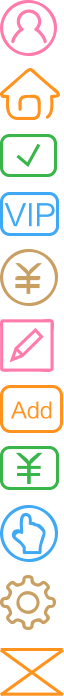
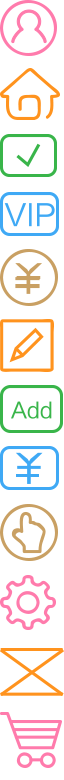
zgf

diff --git a/thinkphp3.2/msy/Application/Purchase/View/PersonalCenter/index.html b/thinkphp3.2/msy/Application/Purchase/View/PersonalCenter/index.html
@@ -52,7 +52,7 @@
                 <li>
                     <a href="{:U('Home/CompanyAuthorise/index')}">
                         <span class="real_name"></span>
-                        机构认证
+                        实名认证
                     </a>
                 </li>
             </ul>
@@ -68,13 +68,19 @@
                 <li>
                     <a href="{:U('Recharge/index')}">
                         <span class="charnge"></span>
-                        账户充值
+                        采购充值
+                    </a>
+                </li>
+                <li>
+                    <a href="{:U('purchaseOrder')}">
+                        <span class="purchase_cart"></span>
+                        <span class="purchase_cart_count">采购车<i>1</i></span>
                     </a>
                 </li>
                 <li>
                     <a href="{:U('purchaseOrder')}">
                         <span class="order_purchase"></span>
-                        采购订单
+                        <span class="purchase_cart_count">采购订单<i>1</i></span>
                     </a>
                 </li>
                 <li>
@@ -96,7 +102,7 @@
                 <li>
                     <a href="javascript:void(0);">
                         <span class="icome"></span>
-                        推广收益
+                        <span class="purchase_cart_count">推客收益<i>1</i></span>
                     </a>
                 </li>
             </ul>

diff --git a/thinkphp3.2/msy/Public/css/home/mall.css b/thinkphp3.2/msy/Public/css/home/mall.css
@@ -1124,7 +1124,7 @@ background-size:contain;
     -webkit-transform:translate(-70%) rotateZ(-133deg);-moz-transform:translate(-70%) rotateZ(-45deg);
     -ms-transform:translate(-70%) rotateZ(-45deg);
 }
-.purchase_order_management li span{
+.purchase_order_management li span:first-child{
     width:0.68rem;
     height:0.58rem;
     display:inline-block;
@@ -1134,10 +1134,10 @@ background-size:contain;
     background-size:37px 212px;
     
 }
-.usercenter_management li span{ 
+.usercenter_management li span:first-child{ 
     height:28px;
     background-image:url(../../img/common/ucenter_icon.png);
-    background-size:32px 350px;
+    background-size:32px 390px;
 }
 .usercenter_management li .regs_login{background-position:0 0px;}
 .usercenter_management li .orang{background-position:0 -34px;}
@@ -1149,6 +1149,9 @@ background-size:contain;
 .usercenter_management li .coupon{background-position:0 -218px;}
 .usercenter_management li .icome{background-position:0 -252px;}
 .usercenter_management li .management{background-position:0 -286px;}
+.usercenter_management li .purchase_cart{background-position:0 -356px;}
+.usercenter_management li .purchase_cart_count{position:relative;}
+.purchase_cart_count i{position:absolute;right:-12px;top:-8px;}
 .purchase_center{color:#0062cc;}
 .purchase_order_management li .order_cart{background-position:0 0px;}
 .purchase_order_management li .order_pay{background-position:0 -34px;}
